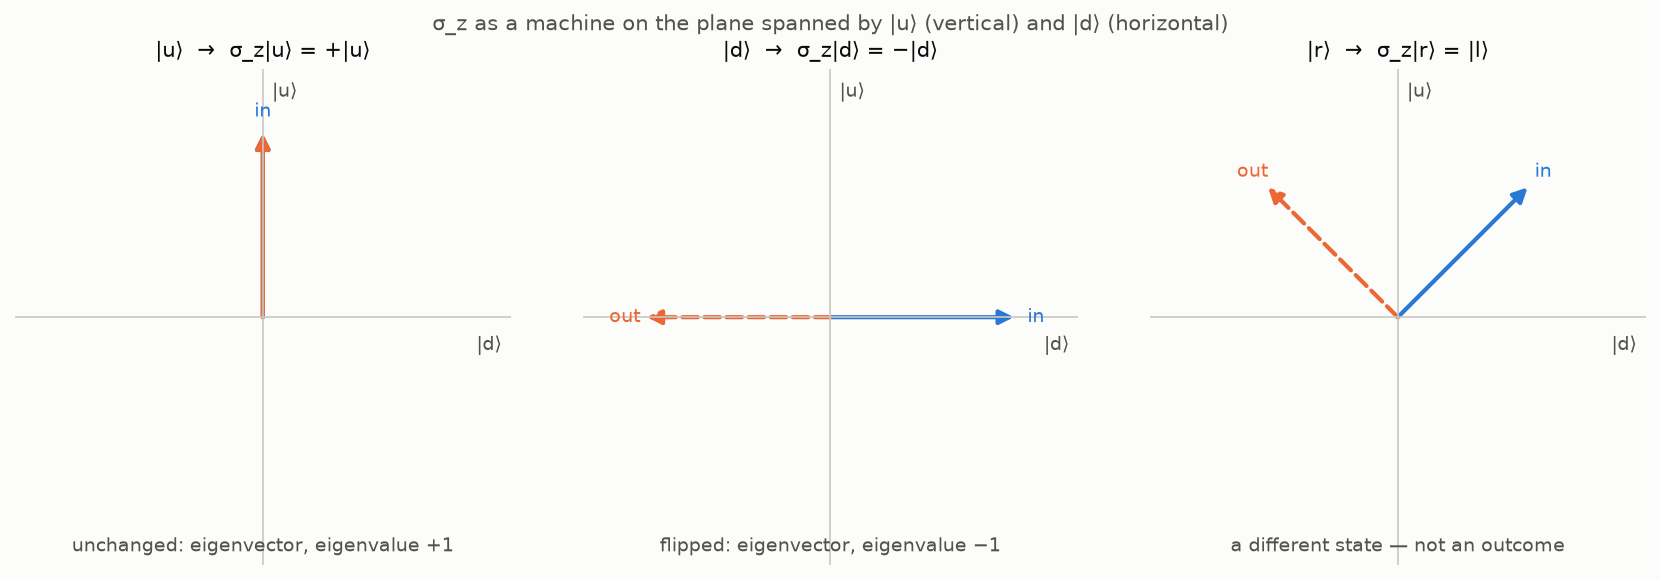
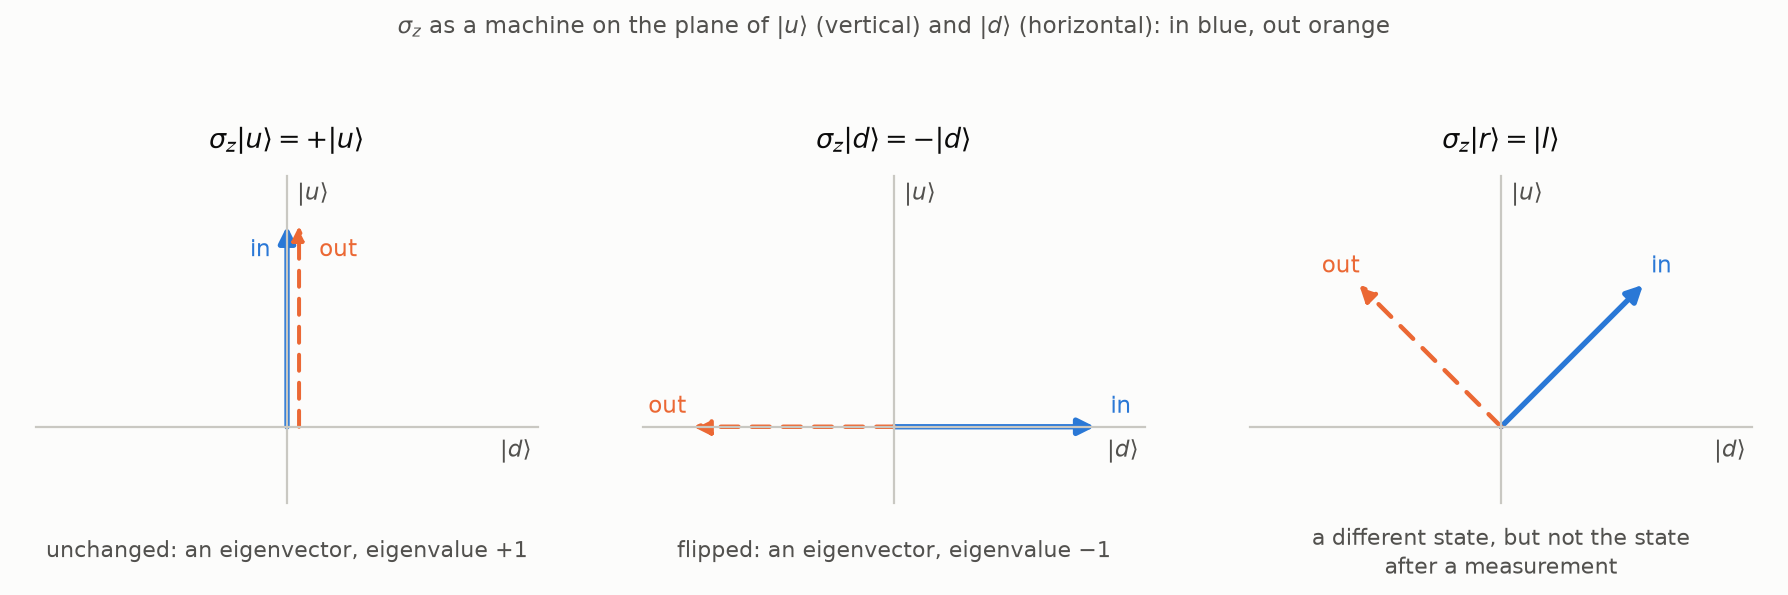
What a Measurement Does: operator_machine redrawn: real formulas, both arrows visible, caption matching the text

diff --git a/content/quantum/what-a-measurement-does/index.md b/content/quantum/what-a-measurement-does/index.md
@@ -53,7 +53,7 @@ are the squared magnitudes of the coordinates, and the operator does
 not produce them. Susskind and Friedman devote their §3.5, "A common
 misconception", to this point.
 
-![The operator σ_z as a machine: it returns |u⟩ unchanged, flips the sign of |d⟩, and sends the superposition |r⟩ to |l⟩ — a different state, not a measurement outcome](operator_machine.png)
+![The operator σ_z as a machine: it returns |u⟩ unchanged, flips the sign of |d⟩, and sends the superposition |r⟩ to |l⟩, a different state, but not the state after a measurement](operator_machine.png)
 
 ## Measurement
 
